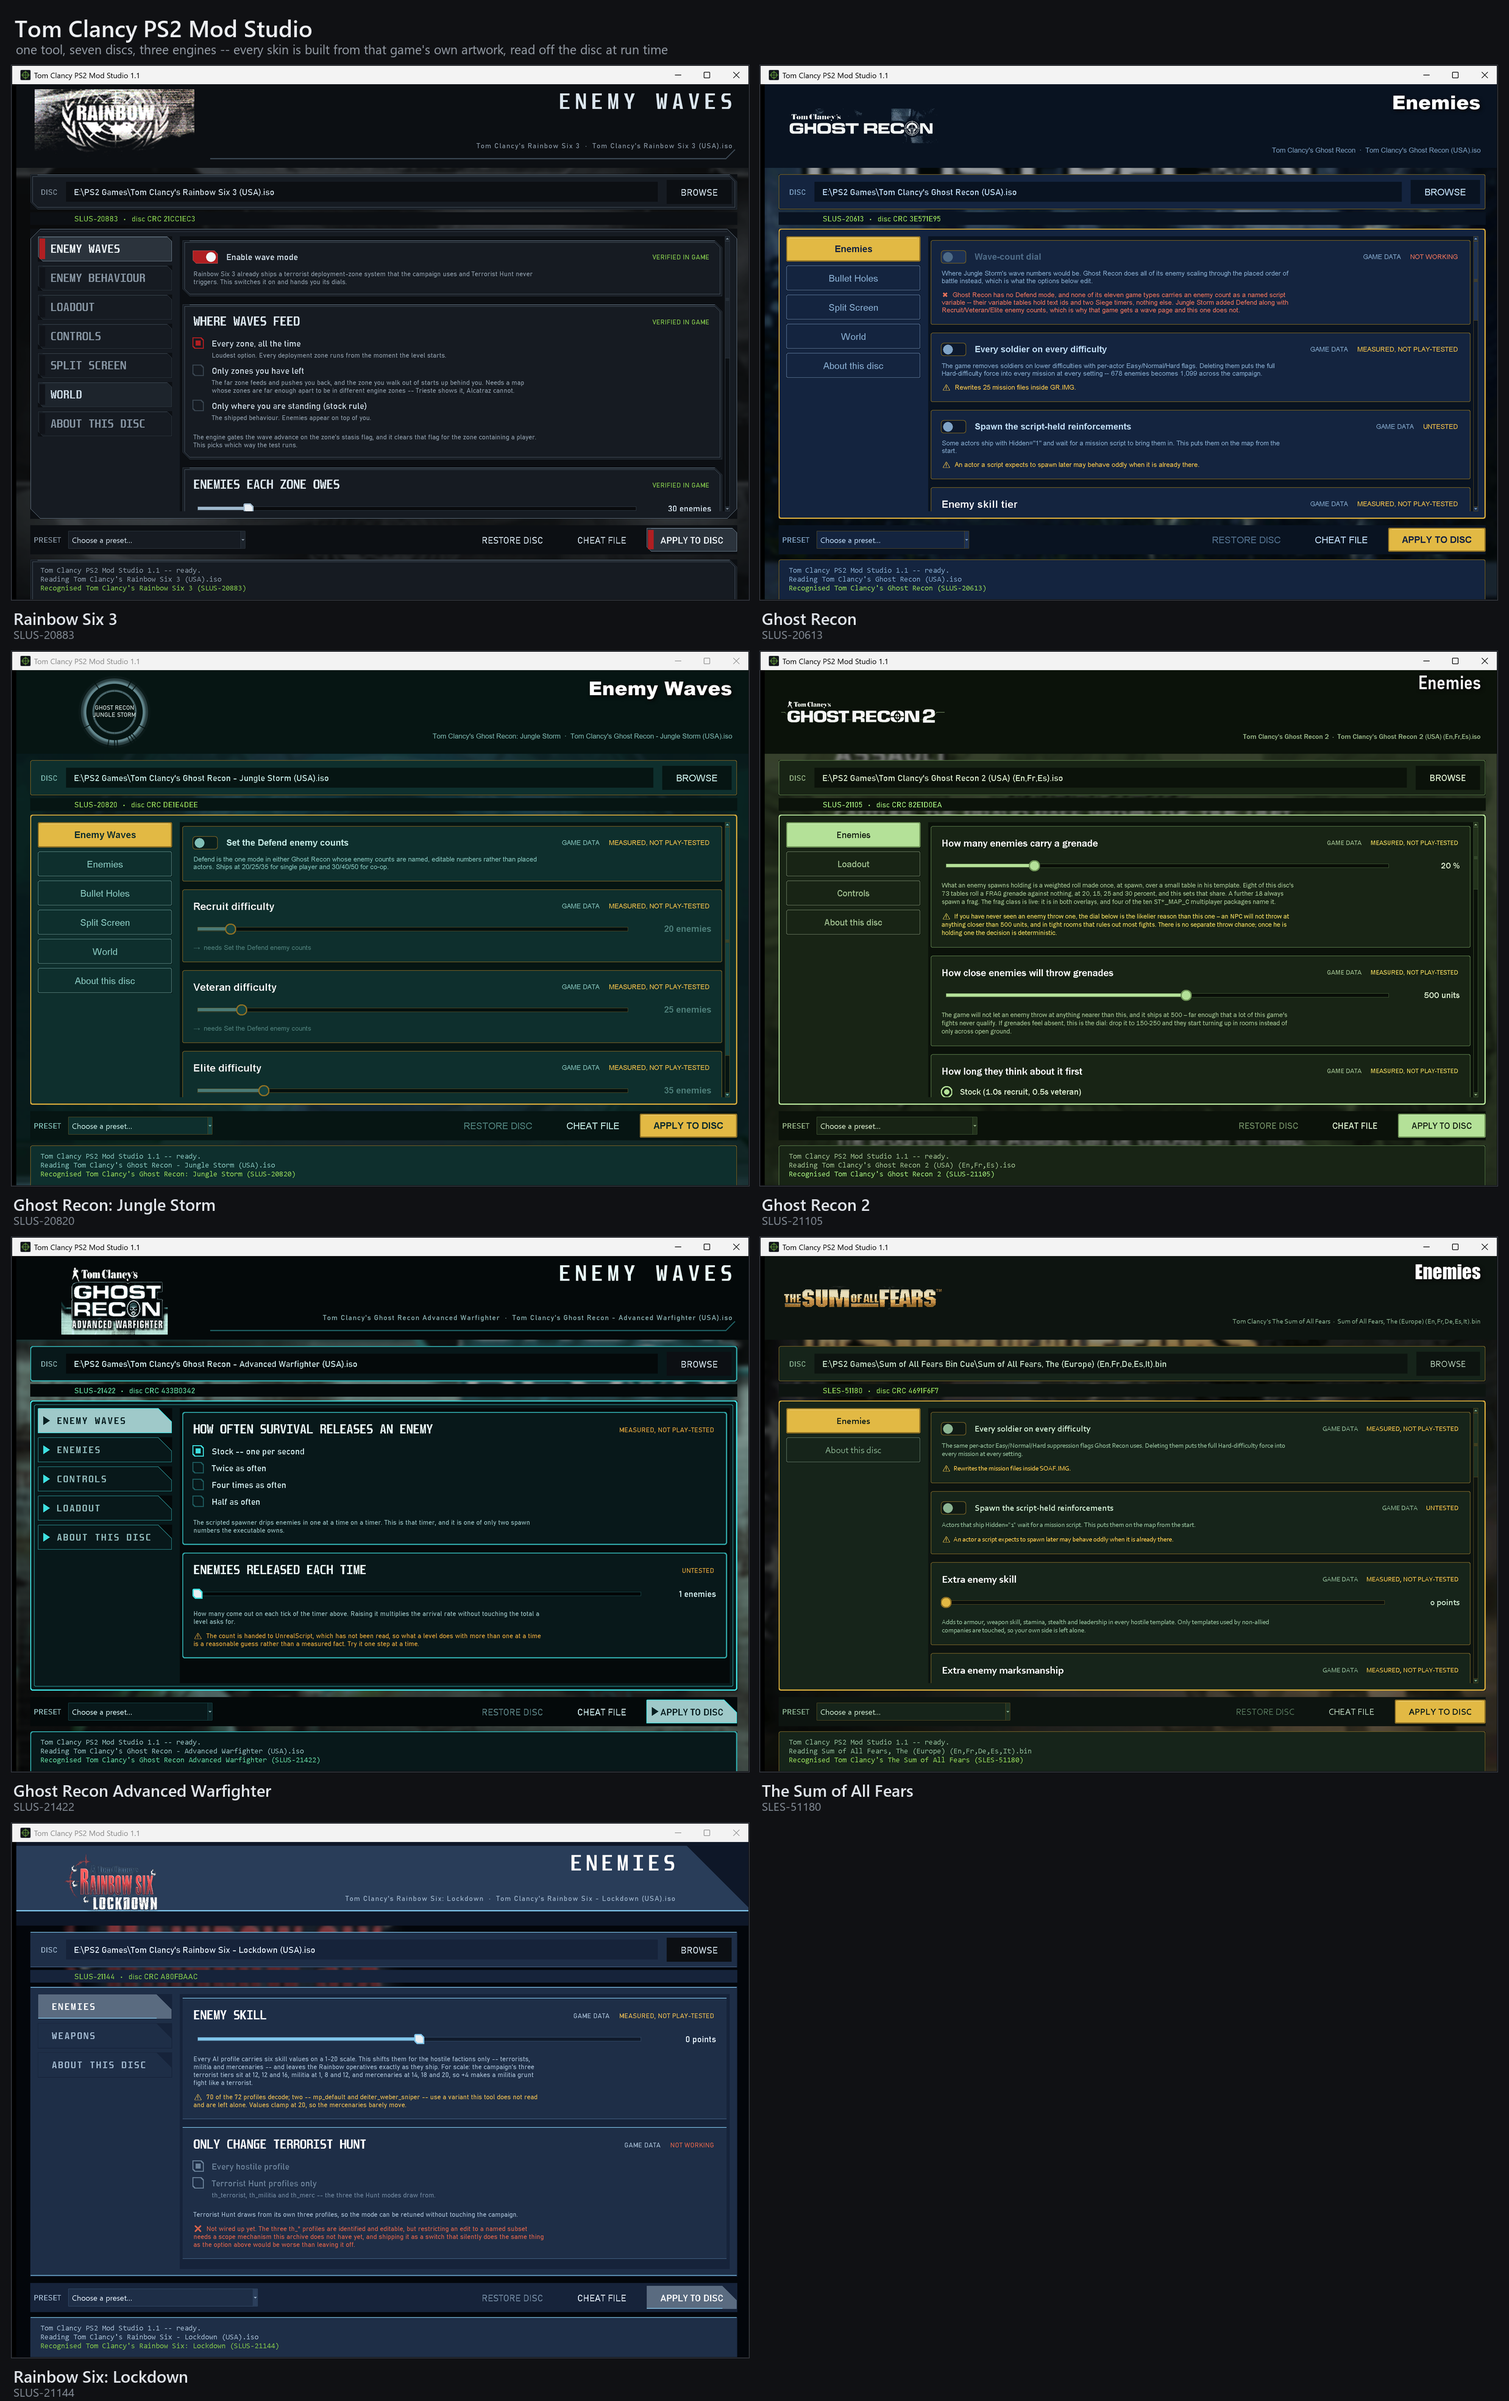
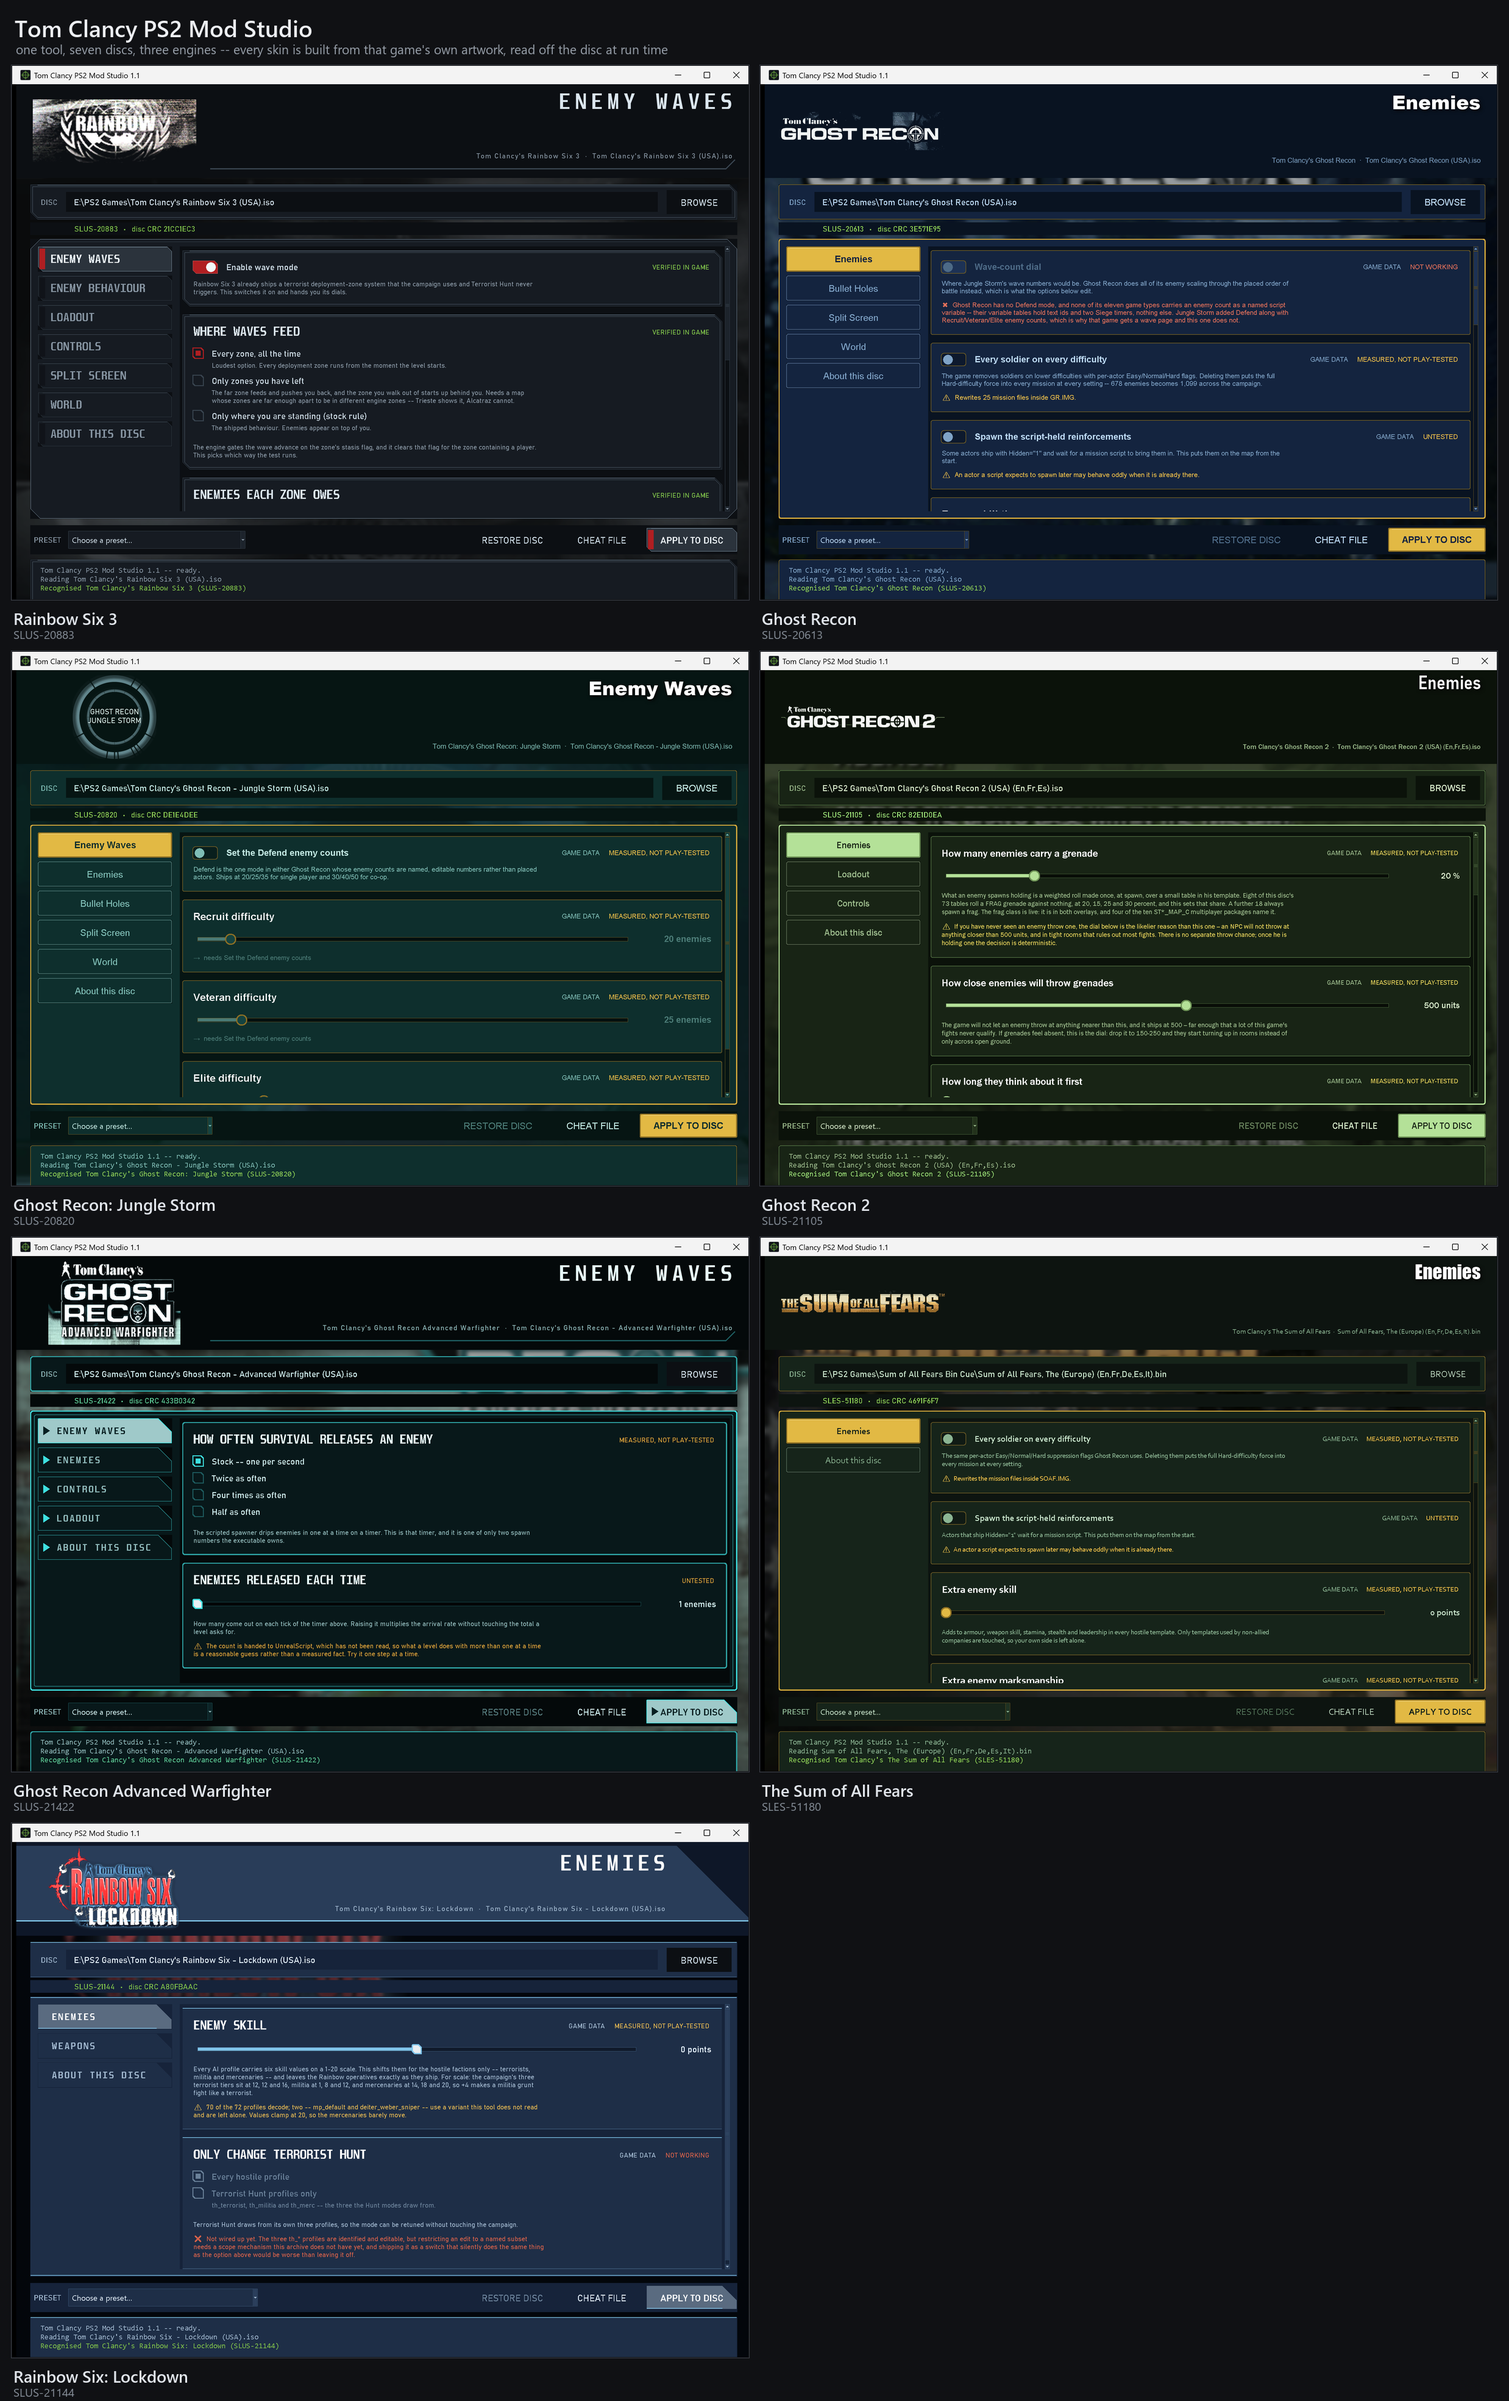
Bigger marks: trim the keyed haze, and give the header room
Two things were holding the square marks down. The key leaves a faint alpha
haze right out to the edges, so a plain bounding box trimmed nothing and a mark
was scaled to fit its own empty margin rather than itself -- Jungle Storm ring
sat in a 438px square while the ring itself is 400. The trim now thresholds
first. And a square mark is limited by the header HEIGHT, not its width, so the
wide wordmarks filled their box while the square ones sat well under it; the
band is 148 rather than 132, which costs the wide marks nothing.

Jungle Storm ring and its wordmark, and Lockdown stacked logo, are both
noticeably larger and the Jungle Storm lettering is legible now.

88 checks pass. Atlas regenerated.

diff --git a/tcps2/art.py b/tcps2/art.py
@@ -354,6 +354,15 @@ def emblem_image(detection, cache_dir=None):
     mark = EMBLEM_WORDMARK.get(profile.id)
     if mark:
         rgba = _stamp_wordmark(rgba, mark[0], mark[1])
+    # Trim the fully transparent margin the key leaves behind. Without this a
+    # mark that does not fill its own source -- Jungle Storm's ring sits in a
+    # square of empty space -- is scaled to fit that empty space rather than to
+    # fit itself, and ends up noticeably smaller than the wordmarks beside it.
+    # threshold first: the key leaves a faint haze all the way to the edges on
+    # some marks, and a plain getbbox() then trims nothing at all
+    box = rgba.split()[-1].point(lambda a: 255 if a > 40 else 0).getbbox()
+    if box and (box[2] - box[0]) > 8 and (box[3] - box[1]) > 8:
+        rgba = rgba.crop(box)
     if cached:
         try:
             rgba.save(cached, "PNG")

diff --git a/gui/app.py b/gui/app.py
@@ -34,7 +34,11 @@ PRESET_HINT = "Choose a preset…"
 VERSION = "1.1"
 NOTES_TAB = "About this disc"
 
-HEADER = 132
+# A square mark -- Jungle Storm's reticle ring, Lockdown's stacked logo -- is
+# limited by the header's HEIGHT, not its width, so the wide wordmarks were
+# filling their box while the square ones sat well under it. A taller band
+# costs the wide marks nothing and gives the square ones room.
+HEADER = 148
 ACTION_H = 46
 LOG_H = 88
 GUTTER = 22
